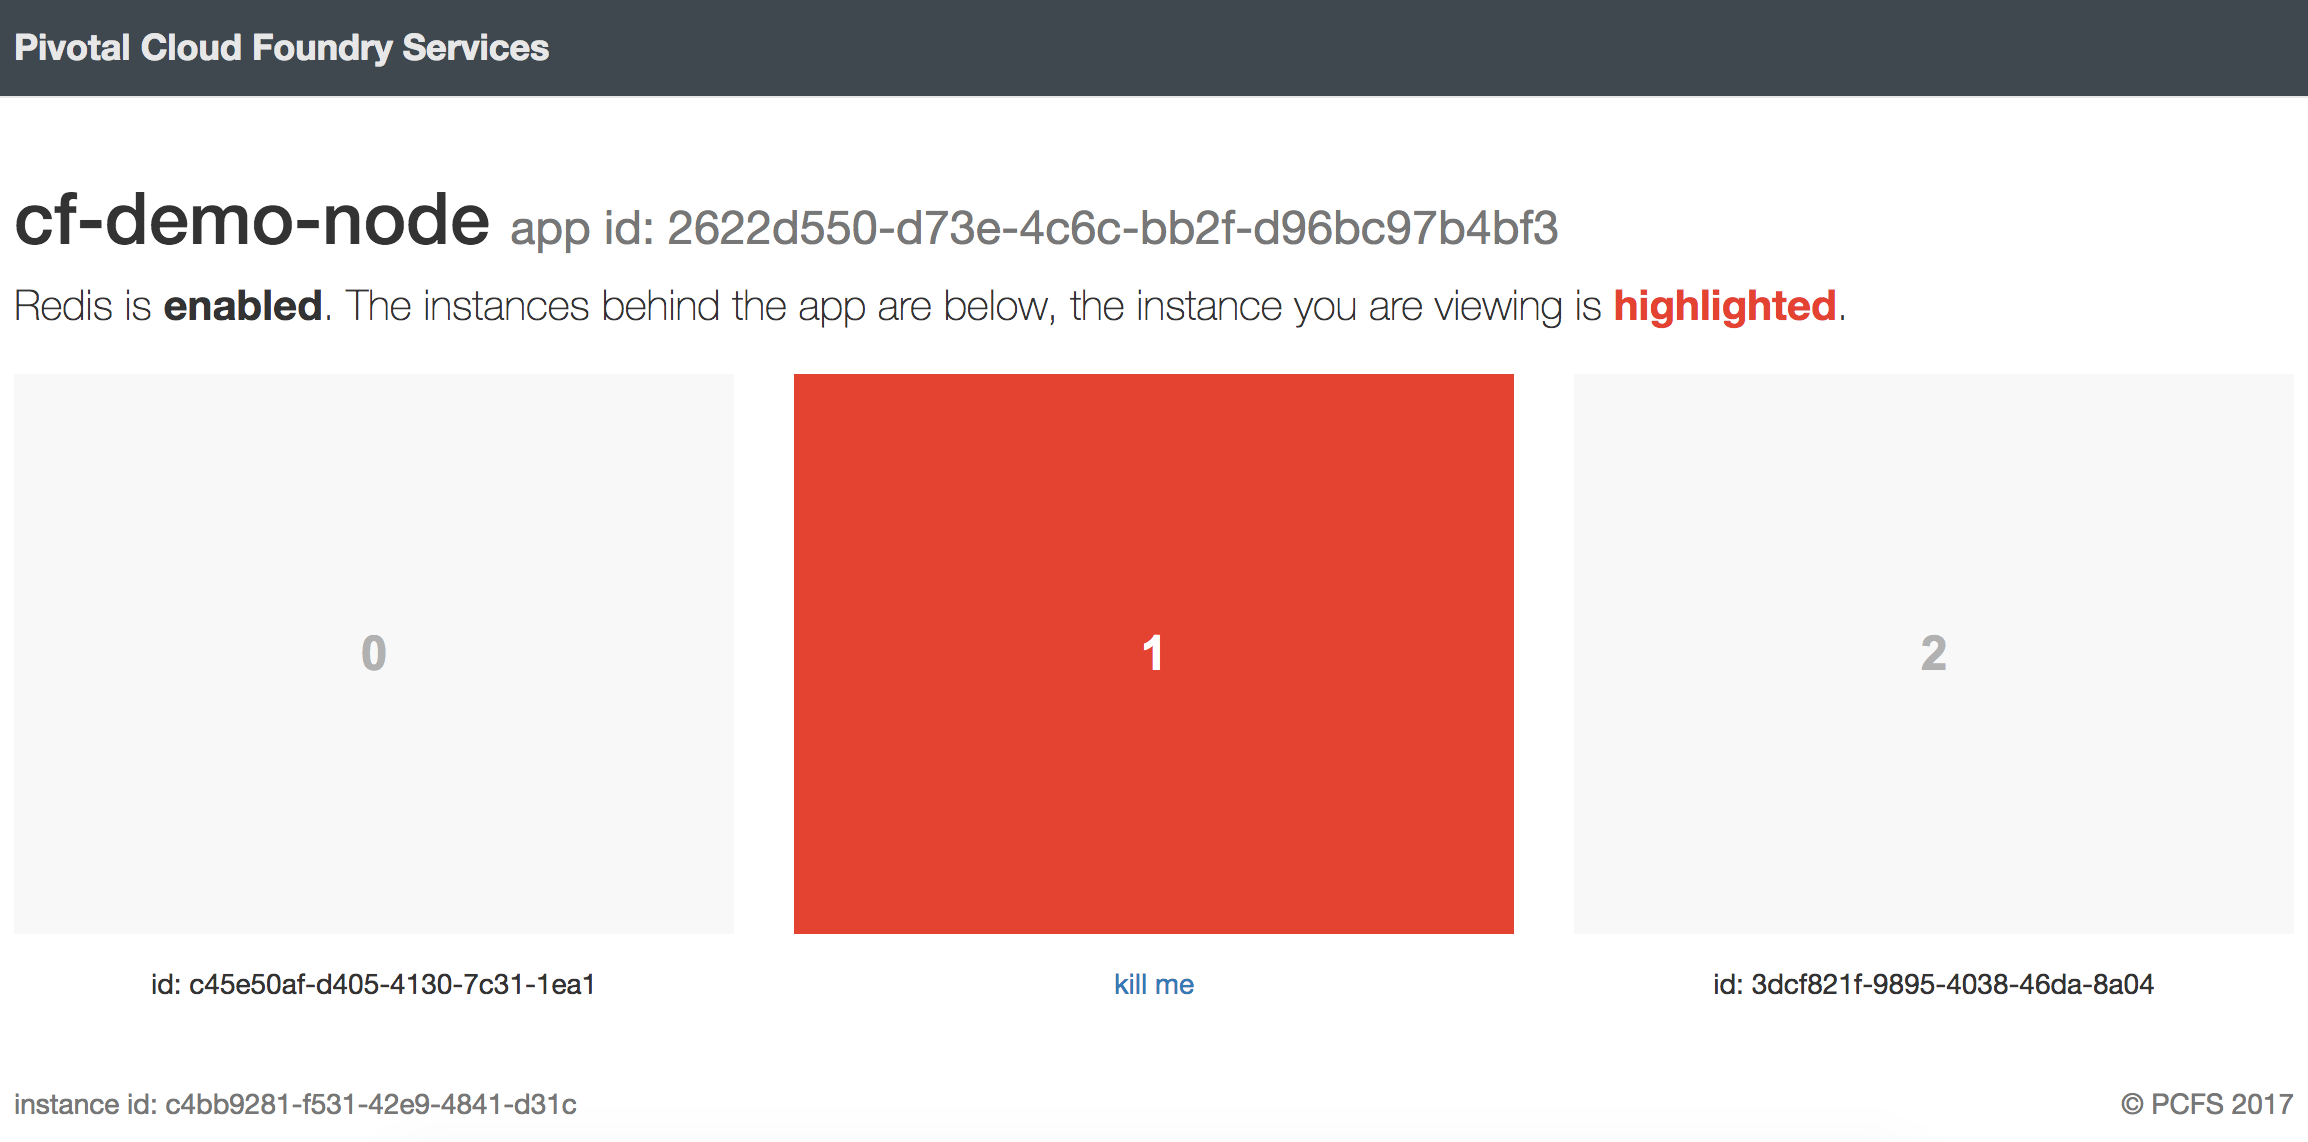
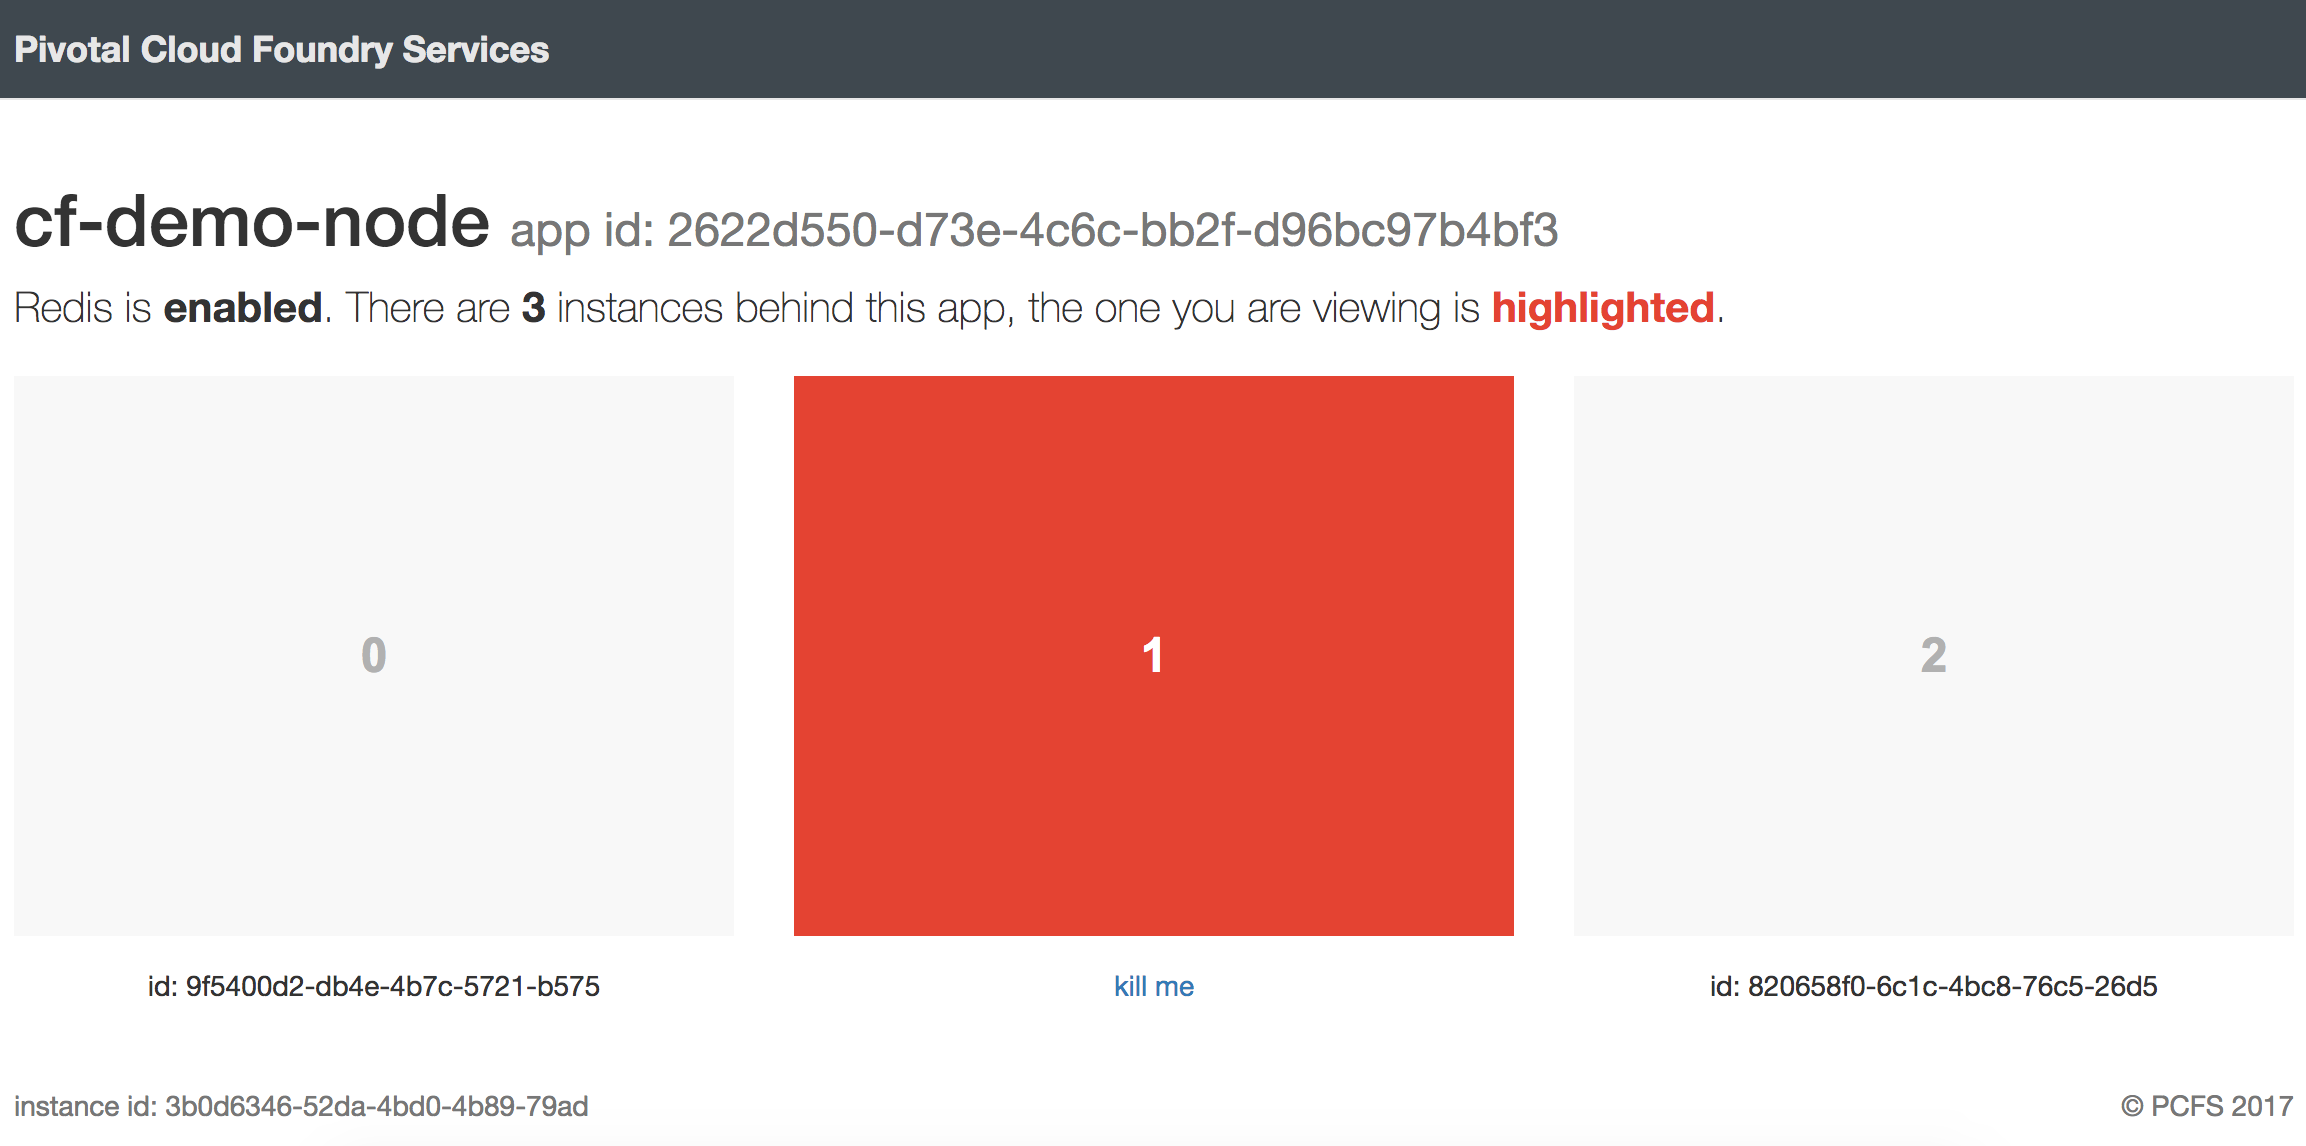
minor text changes

diff --git a/public/index.html b/public/index.html
@@ -75,7 +75,7 @@
       <h1>{{ applicationName }} <small>app id: {{ applicationId }}</small>
       </h1>
       <p v-if="redis" class="lead">
-        Redis is <strong>enabled</strong>. The instances behind the app are below, the instance you are viewing is <strong :style="'color: #' + colour">highlighted</strong>.
+        Redis is <strong>enabled</strong>. There are <strong>{{ instances.length }}</strong> instances behind this app, the one you are viewing is <strong :style="'color: #' + colour">highlighted</strong>.
       </p>
       <p v-else class="lead">
         Redis is <strong>disabled</strong>.
